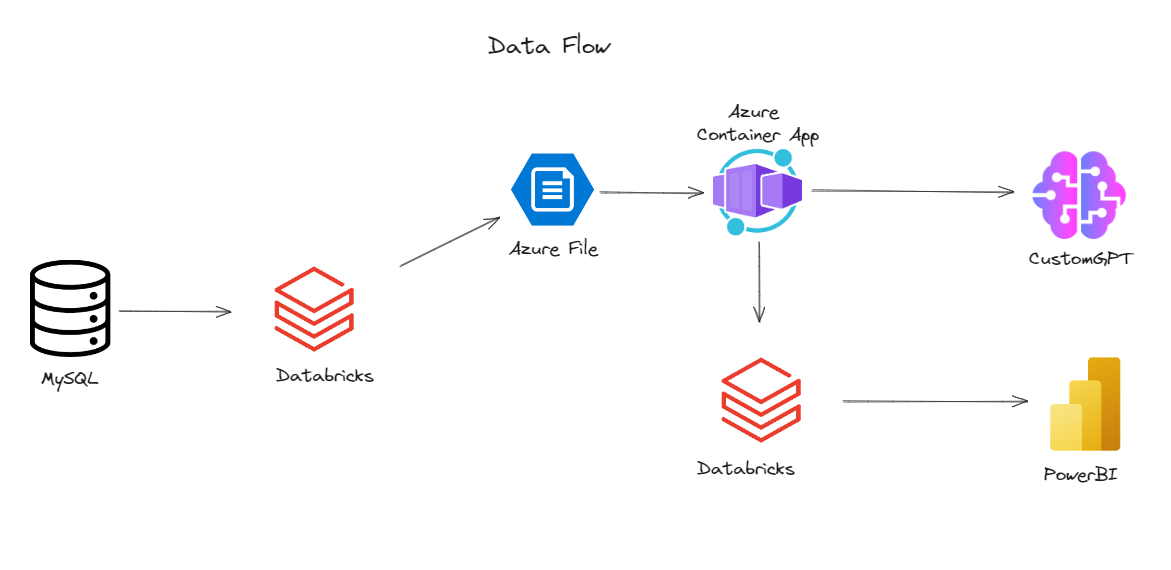
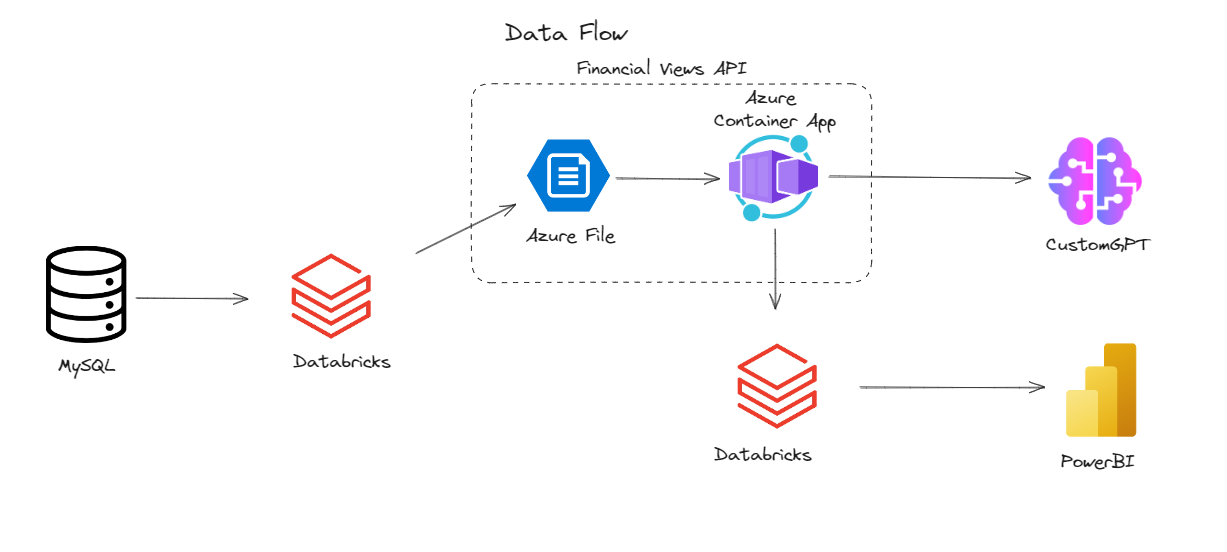
evrfdsxc

diff --git a/ai_financials.md b/ai_financials.md
@@ -58,18 +58,22 @@ For that reason, I devised a different RAG approach which was more suitable for 
 ### Solution Devised
 The goal is to enable users to extract meaningful insights from financial tabular data so that they can make better strategic decisions for a company. My solution has two user interfaces:
 
-1. CustomGPT 
-- Purpose: Provides a real-time chat interface for users to generate insights and diagrams about the health of their company financials instantly
+- CustomGPT - provides a real-time chat interface for users to generate insights and diagrams about the health of their company financials instantly
 
 ![alt text](/assets/images/customgpt_snippet.png)
 
-2. PowerBI 
-- Purpose: Displays pre-generated AI financial insights along with financial charts created by PowerBI
+- PowerBI - displays pre-generated AI financial insights along with financial charts created by PowerBI
 ![alt text](/assets/images/powerbi_dashboard.png)
 
 
 ### Data Flow
+
+![alt text](/assets/images/data_flow.png)
+
 The raw financial data resides in MySQL Database. They are transformed into insights through the following steps:
+
+
+
 1. Raw data is aggregated and transformed raw data into views and stored in Azure Files
 - these views include revenue, cash flow, profit & loss, and accounts receivables which are more suitable for analysis
 - databricks notebooks are scheduled with jobs to keep the views updated with the latest financial data
@@ -82,7 +86,7 @@ The raw financial data resides in MySQL Database. They are transformed into insi
 3. During inference, Assistants API/CustomGPT may perform calculations using the code interpreter. Finally, the insights are displayed to the user in PowerBI/CustomGPT Interface
 - for CustomGPT, the retrieval augmented generation is real-time 
 - for PowerBI, the retrieval augmented generation flows are programmed 
-![alt text](/assets/images/data_flow.png)
+
 
 
 Design Choices
